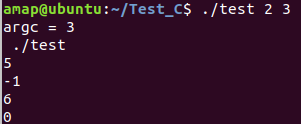
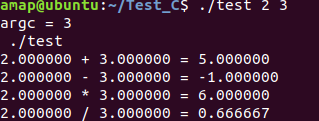
20220324 2nd commit

diff --git a/20220324/test.cpp b/20220324/test.cpp
@@ -4,13 +4,17 @@
 
 int main(int argc, char* argv[])
 {	
+	float a, b;
+	a = atof(argv[1]);
+	b = atof(argv[2]);
+	
 	printf("argc = %d\n",argc);
 	printf(" %s\n",argv[0]);
 	
-	printf("%d\n",atoi(argv[1])+atoi(argv[2]));
-	printf("%d\n",atoi(argv[1])-atoi(argv[2]));
-	printf("%d\n",atoi(argv[1])*atoi(argv[2]));
-	printf("%d\n",atoi(argv[1])/atoi(argv[2]));
+	printf("%f + %f = %f\n", a, b, a+b);
+	printf("%f - %f = %f\n", a, b, a-b);
+	printf("%f * %f = %f\n", a, b, a*b);
+	printf("%f / %f = %f\n", a, b, a/b);
 	
  	return 1;
 }
